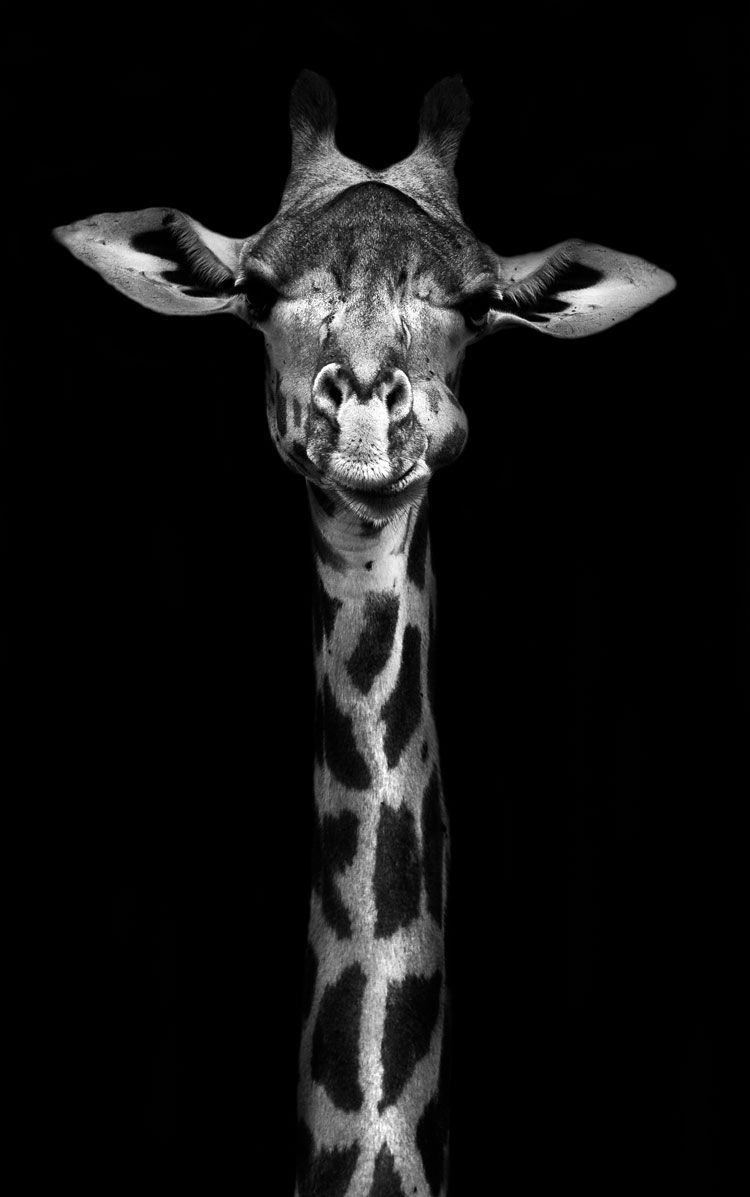
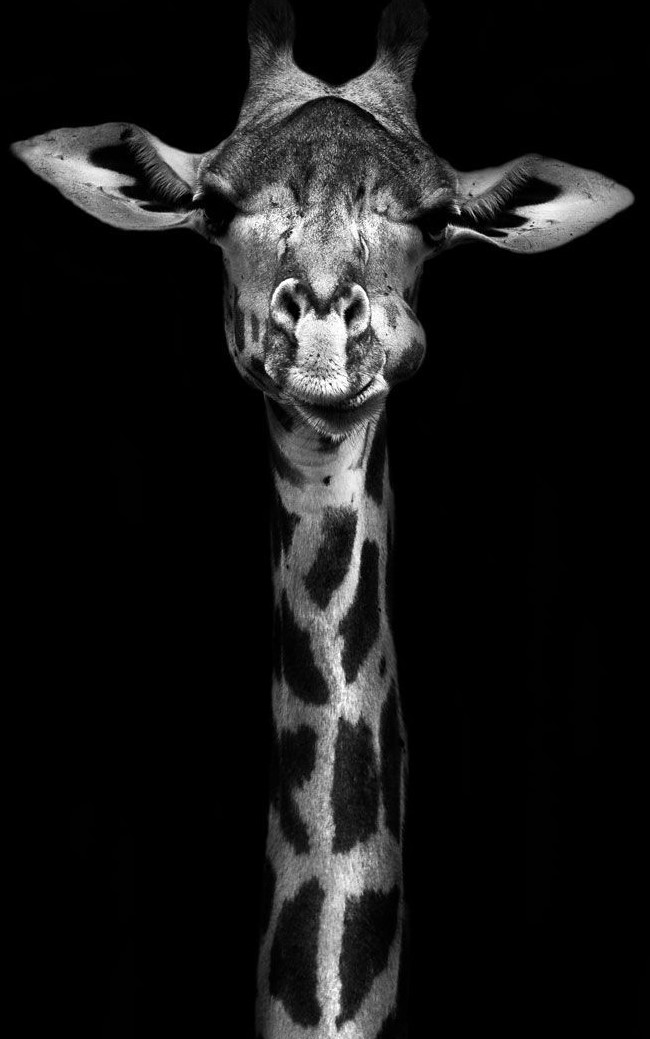
styled the file on css
added a background photo and styled the html file

Changed region(s): [[0.0, 0.0308, 0.9846, 1.0]]

diff --git a/index.html b/index.html
@@ -28,75 +28,76 @@
     <title>Photography</title>
   </head>
   <body>
-    <div class="intro" mb-5>
+    <div class="hero">
       <h3>TONIA CHEBET</h3>
       <h1>PHOTOGRAPHY</h1>
       <p>
         This is just a random paragraph about photography and I don't really
         know what to write. Bye!
       </p>
-      <br />
+      <br>
+          <a href="#" class="btn btn-primary">Get Started</a>
     </div>
     <div class="main">
       <div class="row row-cols-1 row-cols-md-3 g-4">
         <div class="col">
           <div class="card">
-            <img src="images/beach.jpeg" class="card-img-top" alt="..." />
+            <img src="images/beach.jpeg" class="img-fluid" alt="..." />
           </div>
         </div>
         <div class="col">
           <div class="card">
-            <img src="images/cat1.jpeg" class="card-img-top" alt="..." />
+            <img src="images/cat1.jpeg" class=" img-fluid" alt="..." />
           </div>
         </div>
         <div class="col">
           <div class="card">
-            <img src="images/dog1.jpeg" class="card-img-top" alt="..." />
+            <img src="images/dog1.jpeg" class="img-fluid" alt="..." />
           </div>
         </div>
-        <div class="col">
+        <div class="col d-none d-lg-block">
           <div class="card">
-            <img src="images/elephant.jpeg" class="card-img-top" alt="..." />
+            <img src="images/elephant.jpeg" class="img-fluid" alt="..." />
           </div>
         </div>
-          <div class="col">
+          <div class="col d-none d-lg-block">
            <div class="card">
-            <img src="images/giraffe.jpeg" class="card-img-top" alt="..." />
+            <img src="images/cathome.jpeg" class="img-fluid" alt="..." />
           </div>
           </div>
-          <div class="col">
+          <div class="col d-none d-lg-block">
            <div class="card">
-            <img src="images/guitar.png" class="card-img-top" alt="..." />
+            <img src="images/cat2.jpeg" class="img-fluid" alt="..." />
           </div>
           </div>
-          <div class="col">
+          <div class="col d-none d-lg-block">
           <div class="card">
-            <img src="images/leopard.jpeg" class="card-img-top" alt="..." />
+            <img src="images/leopard.jpeg" class="img-fluid" alt="..." />
           </div>
           </div>
-          <div class="col">
+          <div class="col d-none d-lg-block">
           <div class="card">
-            <img src="images/plane.jpeg" class="card-img-top" alt="..." />
+            <img src="images/plane.jpeg" class="img-fluid" alt="..." />
           </div>
         </div>
-          <div class="col">
+          <div class="col d-none d-lg-block">
           <div class="card">
-            <img src="images/shoe.jpeg" class="card-img-top" alt="..." />
+            <img src="images/shoe.jpeg" class="img-fluid" alt="..." />
           </div>
           </div>
-          <div class="col">
+          <div class="col d-none d-lg-block">
           <div class="card">
-            <img src="images/moon.jpeg" class="card-img-top" alt="..." />
+            <img src="images/moon.jpeg" class="img-fluid" alt="..." />
           </div>
         </div>
-          <div class="col">
+          <div class="col d-none d-lg-block">
           <div class="card">
-            <img src="images/dog2.jpeg" class="card-img-top" alt="..." />
+            <img src="images/dog2.jpeg" class="img-fluid" alt="..." />
           </div>
           </div>
-          <div class="col">
+          <div class="col d-none d-lg-block">
           <div class="card">
-            <img src="images/cat3.jpeg" class="card-img-top" alt="..." />
+            <img src="images/cat3.jpeg" class="img-fluid" alt="..." />
         </div>
       </div>
     </div>

diff --git a/styles/project.css b/styles/project.css
@@ -1,14 +1,64 @@
 :root {
   --primary-color: black;
   --secondary-color: white;
+  --default-font: Roboto;
 }
 body {
   background-color: var(--primary-color);
+  padding: 148px;
 }
-.intro {
-  text-align: center;
-  padding: 240px 120px;
-  background-image: url("images/cathome.jpeg");
+.hero {
+  background-image: url(/images/giraffe.jpeg);
   background-size: cover;
-  background-position: center;
+  padding: 300px 200px;
+  margin-bottom: 5%;
+}
+.hero h3 {
+  text-align: center;
+  color: var(--secondary-color);
+}
+.hero h1 {
+  text-align: center;
+  color: var(--secondary-color);
+  font-size: 72px;
+  font-family: var(--default-font);
+  margin-left: -30px;
+}
+.hero p {
+  text-align: center;
+  color: var(--secondary-color);
+  font-weight: 500;
+}
+.btn-primary {
+  padding: 20px 30px;
+  border: 50px;
+  margin-top: 20%;
+  margin-left: 40%;
+  font-size: 14px;
+  font-family: var(--default-font);
+  background: var(--secondary-color);
+  color: var(--primary-color);
+}
+.card-img-top {
+  width: 100%;
+  height: 100%;
+}
+@media (max-width: 900px) {
+  .hero {
+    background-size: cover;
+    padding: 200px;
+  }
+  .hero h1 {
+    font-size: 44px;
+  }
+
+  .hero h3 {
+    font-size: 44px;
+  }
+  .hero p {
+    display: none;
+  }
+  .main {
+    max-width: 100%;
+  }
 }
